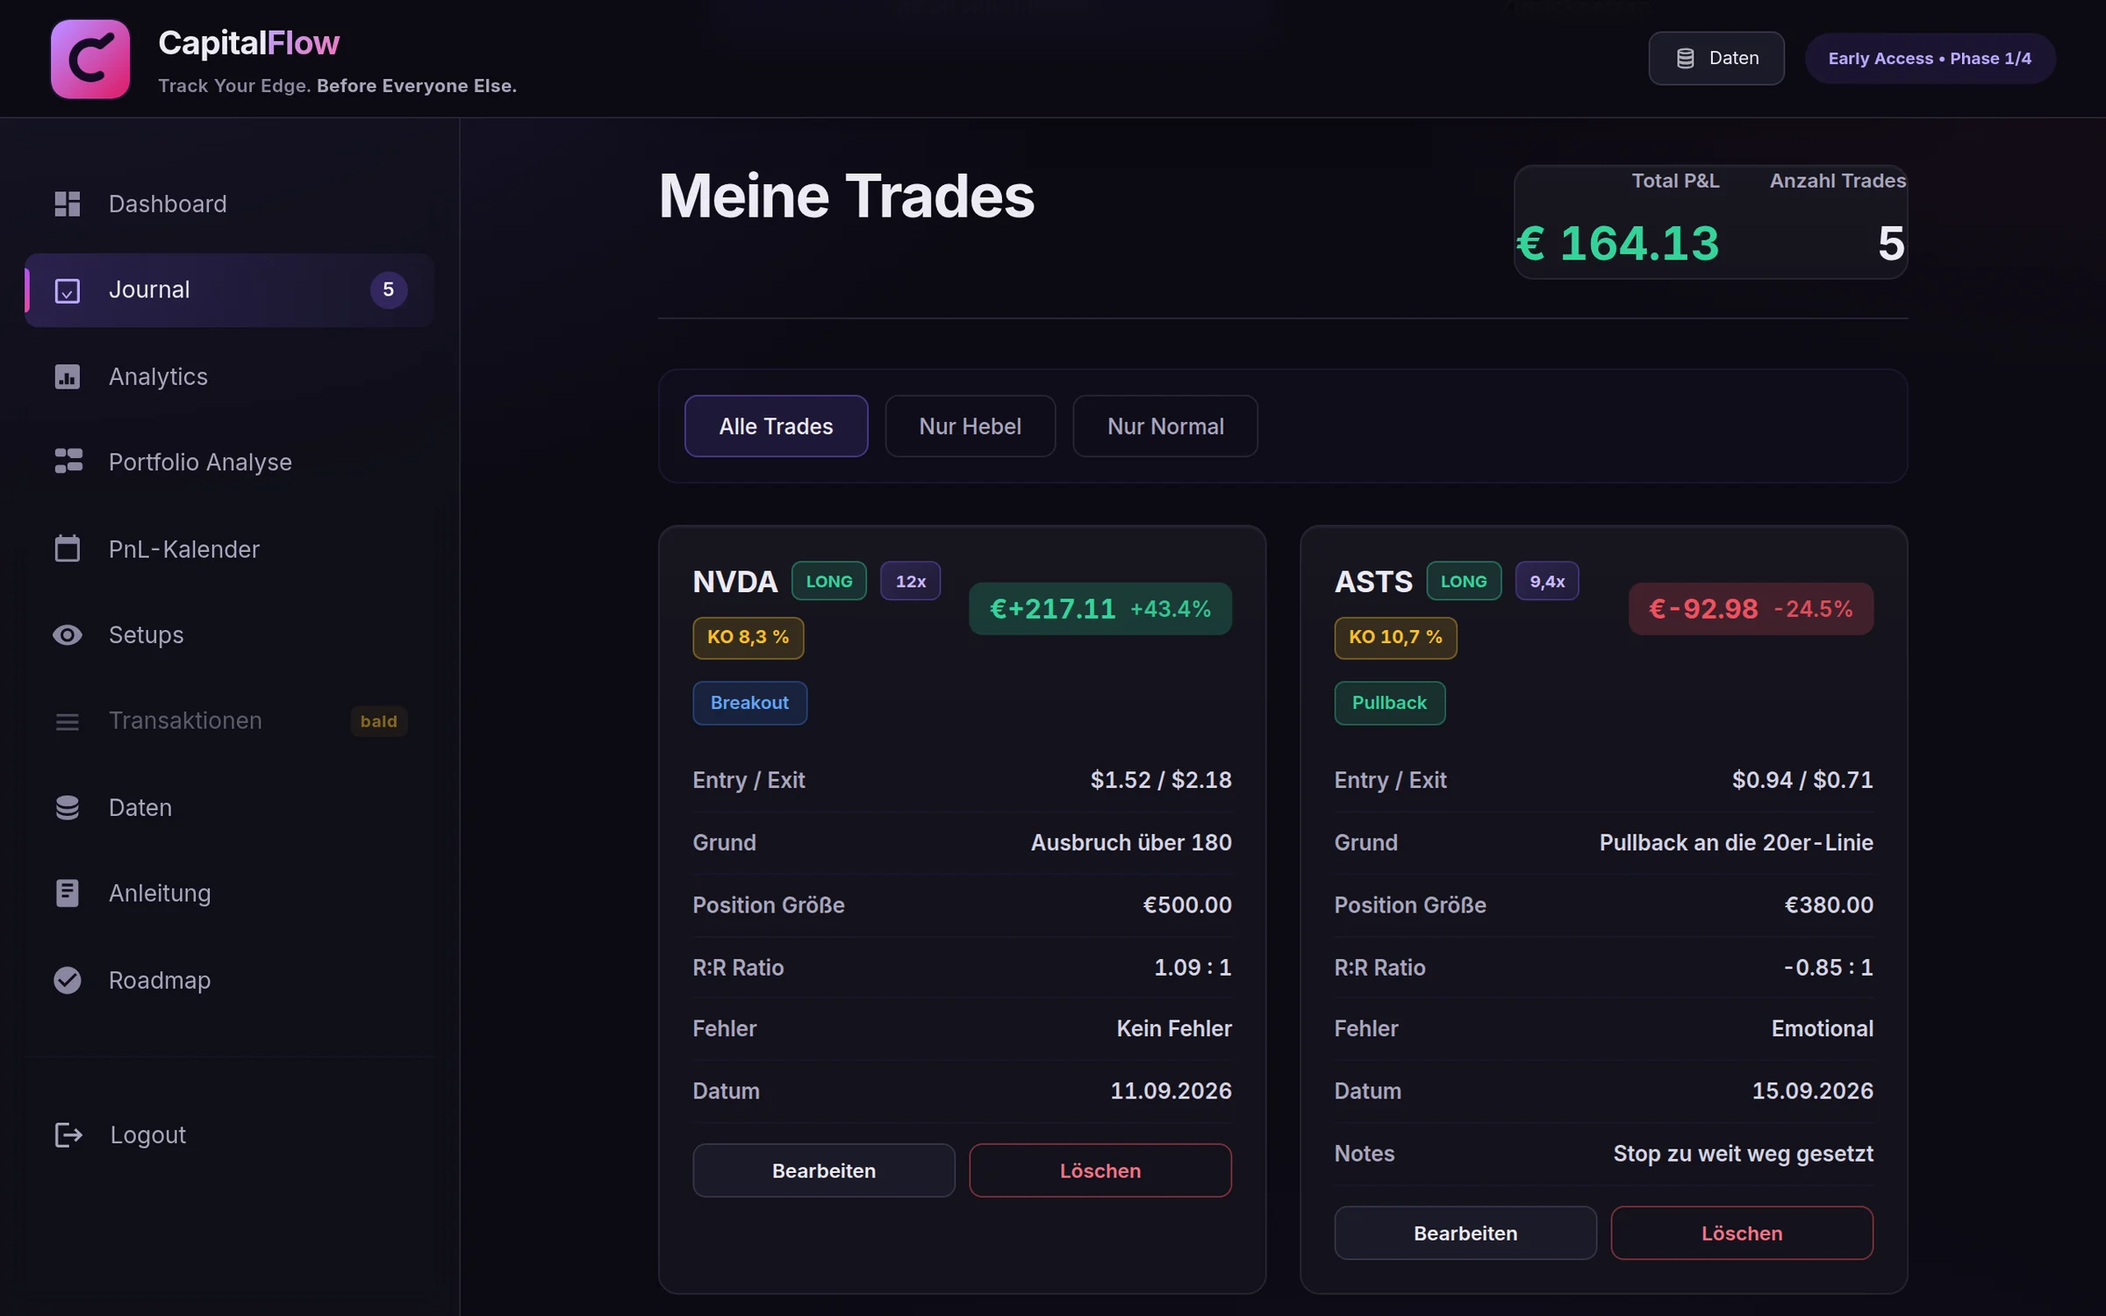
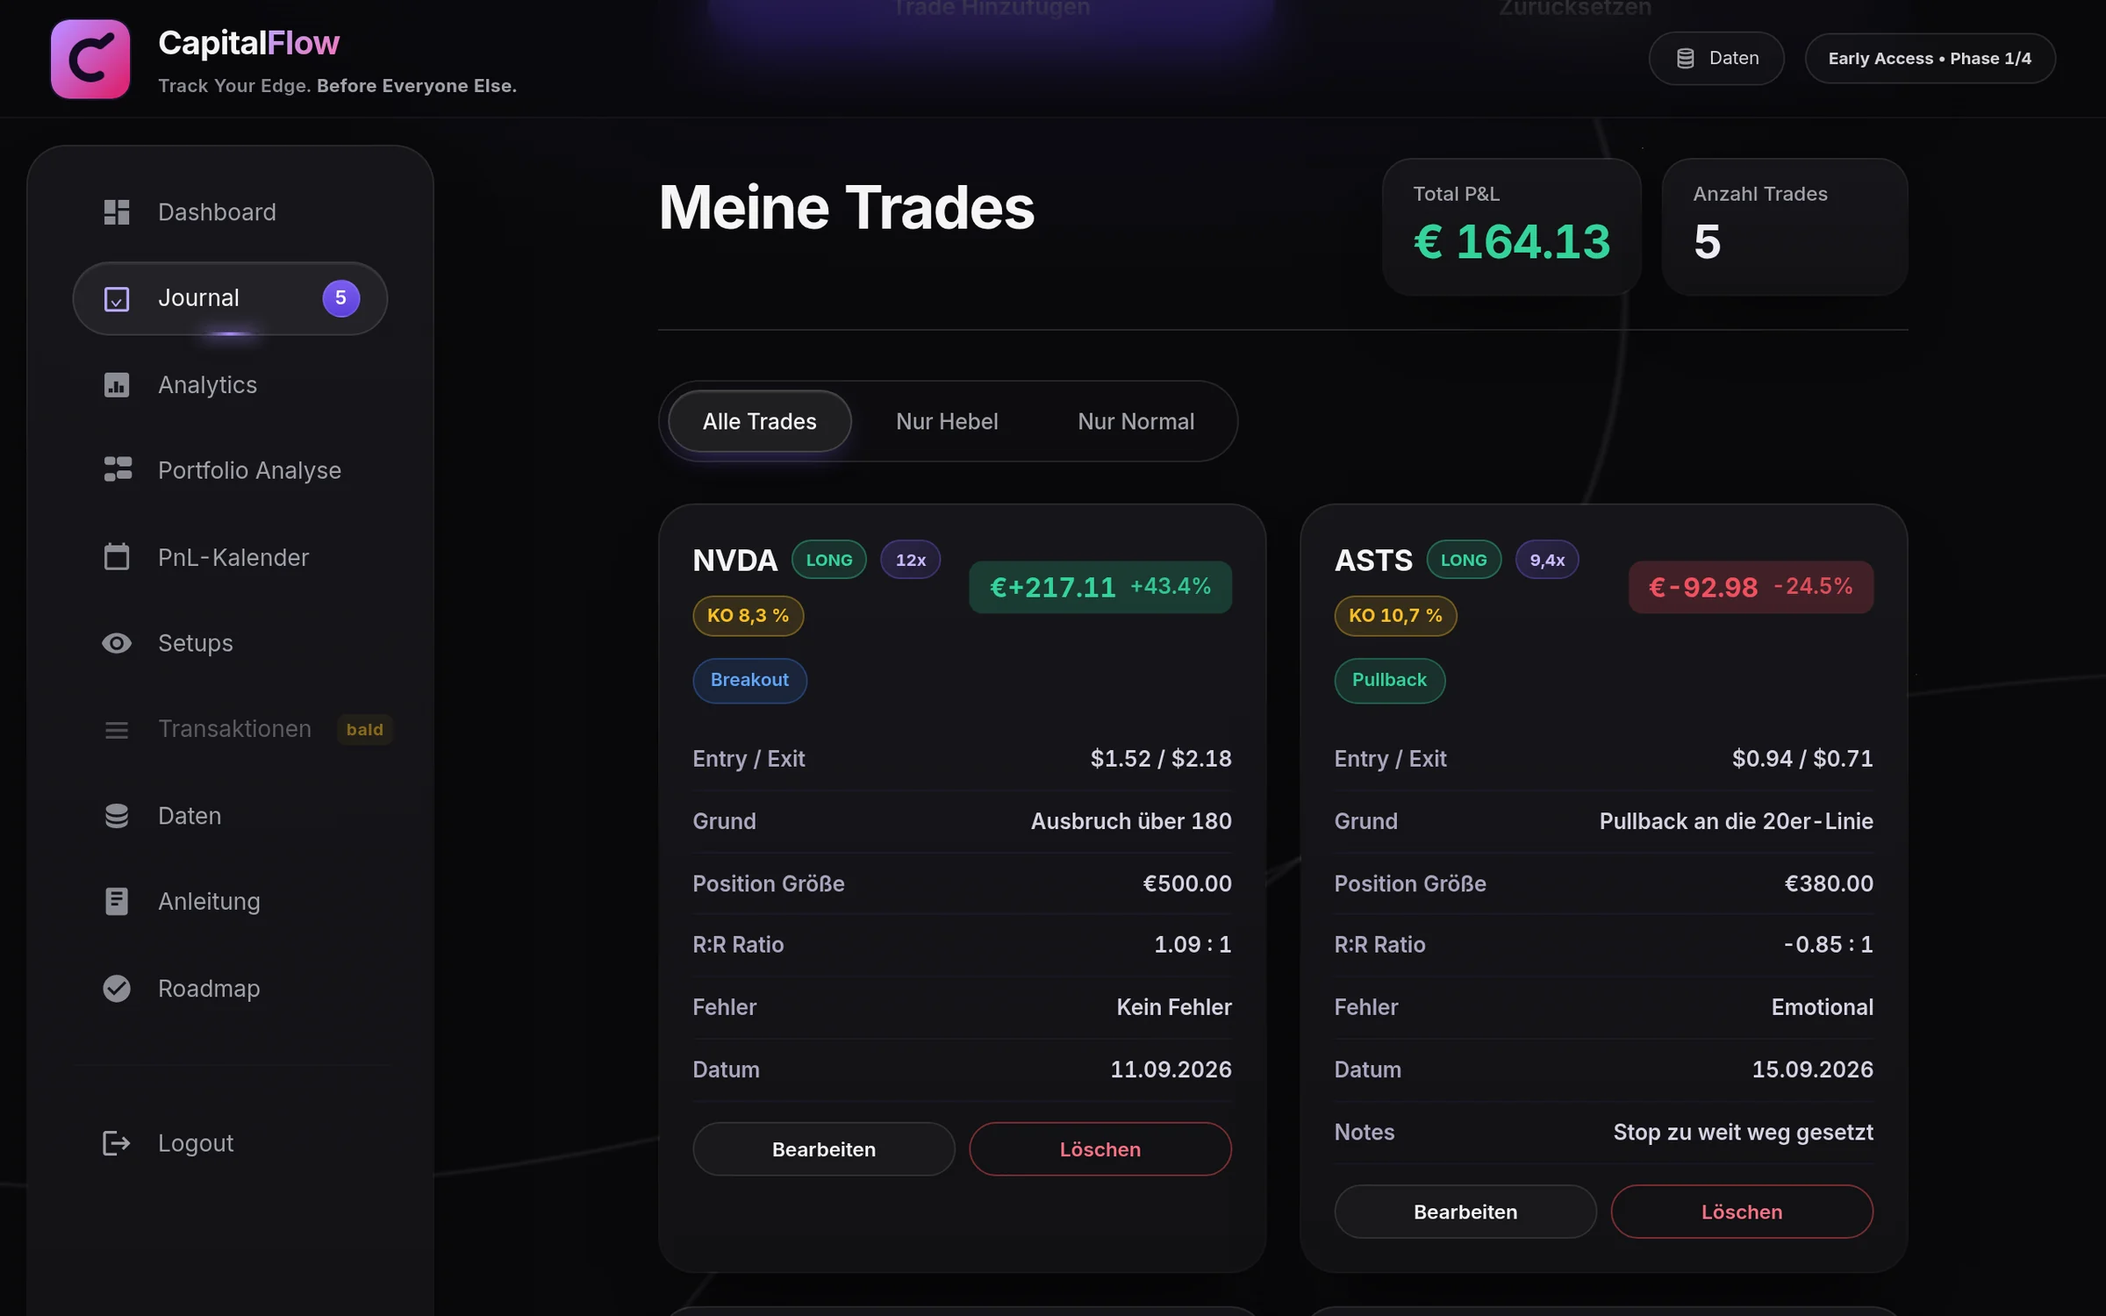
Design: Stil Glas

diff --git a/css/thema.css b/css/thema.css
@@ -636,3 +636,239 @@ dialog.cf-gross {
     .modal-btn-confirm:hover, .newkey-btn:hover, .login-btn:hover, .btn-secondary:hover, .trade-edit:hover, .daten-btn:hover,
     .trade-delete:hover, .setups-btn-delete:hover { transform: none !important; }
 }
+
+/* ==========================================================================
+   STIL "GLAS" (02.10.)
+   Vorbild: dunkles Dashboard mit fast schwarzer, neutraler Flaeche, grossen
+   runden Karten mit Verlaufskante, Pillen-Knoepfen, violettem Leuchten nur
+   an der Hauptaktion und feinen Umlauf-Linien im Hintergrund.
+   Steht am Ende, damit es alles darueber ersetzt.
+   ========================================================================== */
+:root {
+    --g-kante: linear-gradient(180deg, rgba(255, 255, 255, 0.13), rgba(255, 255, 255, 0.035) 45%, rgba(255, 255, 255, 0.06));
+    --g-kante-hover: linear-gradient(180deg, rgba(167, 139, 250, 0.55), rgba(124, 92, 240, 0.18) 50%, rgba(255, 255, 255, 0.08));
+    --g-flaeche: linear-gradient(180deg, #16161A, #111114);
+    --g-flaeche-tief: #0D0D10;
+    --g-pille-rand: rgba(255, 255, 255, 0.10);
+    --g-glow: 0 0 0 1px rgba(167, 139, 250, 0.35), 0 8px 28px -6px rgba(124, 92, 240, 0.65), 0 0 22px rgba(124, 92, 240, 0.35);
+    --card-bg: #121215;
+    --border-color: #26262C;
+}
+
+/* ------------------------------------------------ Hintergrund: Umlaufbahnen und Sterne, ruhig */
+html { background: #09090B; }
+body {
+    background:
+        radial-gradient(1px 1px at 12% 18%, rgba(255, 255, 255, 0.55), transparent 60%),
+        radial-gradient(1px 1px at 78% 9%, rgba(255, 255, 255, 0.45), transparent 60%),
+        radial-gradient(1px 1px at 91% 41%, rgba(255, 255, 255, 0.35), transparent 60%),
+        radial-gradient(1px 1px at 33% 72%, rgba(255, 255, 255, 0.35), transparent 60%),
+        radial-gradient(1px 1px at 64% 88%, rgba(255, 255, 255, 0.4), transparent 60%),
+        radial-gradient(1.5px 1.5px at 52% 31%, rgba(167, 139, 250, 0.7), transparent 60%),
+        radial-gradient(1.5px 1.5px at 22% 92%, rgba(167, 139, 250, 0.6), transparent 60%),
+        /* zwei feine Umlaufbahnen */
+        radial-gradient(ellipse 70% 55% at 8% 18%, transparent 98.4%, rgba(255, 255, 255, 0.07) 98.8%, transparent 99.2%),
+        radial-gradient(ellipse 85% 70% at 108% 110%, transparent 98.6%, rgba(255, 255, 255, 0.06) 98.9%, transparent 99.2%),
+        /* Licht oben, sehr weich */
+        radial-gradient(900px 420px at 50% -12%, rgba(124, 92, 240, 0.12), transparent 70%),
+        #09090B !important;
+    background-attachment: fixed !important;
+}
+
+/* ------------------------------------------------ Kopfzeile */
+.navbar {
+    background: rgba(9, 9, 11, 0.72) !important;
+    border-bottom: 1px solid rgba(255, 255, 255, 0.05) !important;
+    backdrop-filter: blur(16px) saturate(140%);
+    -webkit-backdrop-filter: blur(16px) saturate(140%);
+}
+.navbar-phase, .daten-btn {
+    border-radius: 999px !important;
+    background: rgba(255, 255, 255, 0.03) !important;
+    border: 1px solid var(--g-pille-rand) !important;
+    color: #D4D4D8 !important;
+}
+
+/* ------------------------------------------------ Seitenleiste: schwebende Karte */
+.sidebar {
+    top: 88px !important;
+    left: 16px !important;
+    width: 248px !important;
+    height: calc(100vh - 104px) !important;
+    padding: 18px 12px !important;
+    border-radius: 24px !important;
+    border: 1px solid transparent !important;
+    background: var(--g-flaeche) padding-box, var(--g-kante) border-box !important;
+    box-shadow: 0 30px 60px -30px rgba(0, 0, 0, 0.8);
+}
+.main-wrapper { margin-left: 280px; }
+.nav-item {
+    border-radius: 999px !important;
+    padding: 10px 16px !important;
+    border: 1px solid transparent !important;
+    color: #A1A1AA !important;
+}
+.nav-item:hover { background: rgba(255, 255, 255, 0.04) !important; color: #F4F4F5 !important; }
+.nav-item.active {
+    background: rgba(255, 255, 255, 0.06) !important;
+    border-color: rgba(255, 255, 255, 0.10) !important;
+    color: #F4F4F5 !important;
+    box-shadow: inset 0 1px 0 rgba(255, 255, 255, 0.06);
+}
+/* aktiver Punkt: kurzer violetter Lichtstrich unten statt Kante links */
+.nav-item.active::before {
+    left: 50% !important; right: auto !important;
+    top: auto !important; bottom: -1px !important;
+    width: 34px !important; height: 2px !important;
+    transform: translateX(-50%);
+    border-radius: 2px !important;
+    background: linear-gradient(90deg, transparent, #A78BFA, transparent) !important;
+    box-shadow: 0 0 10px 1px rgba(167, 139, 250, 0.7);
+}
+.nav-zahl { background: rgba(255, 255, 255, 0.05) !important; border-color: var(--g-pille-rand) !important; }
+.nav-item.active .nav-zahl { background: linear-gradient(180deg, #7C5CF0, #5B3FD9) !important; color: #fff !important; }
+.sidebar-logout-btn { border-radius: 999px !important; }
+
+/* ------------------------------------------------ Karten: Flaeche + Verlaufskante */
+.dashboard-stat, .top-stat, .dashboard-section, .dashboard-card, .dashboard-big-card,
+.analytics-metric-card, .analytics-metric-card-small, .premium-stat-card, .trade-score-card,
+.daily-summary-card, .trade-card, .position-card, .setups-card, .setup-type-stat-card,
+.aus-karte, .daten-karte, .admin-karte, .admin-section, .hilfe-block, .form-section,
+.portfolio-summary, .summary-item, .zert-block, .newkey-card, .start-kasten,
+.roadmap-card-premium, .completed-card, .in-progress-card, .planned-card,
+.equity-section, .dir-card, .zert-kachel, .admin-key-karte, .bereich-sperre-karte, .trades-stat-item {
+    border: 1px solid transparent !important;
+    border-radius: 22px !important;
+    background: var(--g-flaeche) padding-box, var(--g-kante) border-box !important;
+    box-shadow: 0 24px 48px -28px rgba(0, 0, 0, 0.9) !important;
+}
+/* kleine Kacheln etwas weniger rund */
+.dashboard-card, .analytics-metric-card-small, .zert-kachel, .summary-item, .trades-stat-item { border-radius: 18px !important; }
+/* Setups behalten die farbige Statusmarke, jetzt als Punktlinie oben */
+.setups-card { box-shadow: inset 0 2px 0 var(--st), 0 24px 48px -28px rgba(0, 0, 0, 0.9) !important; }
+.dir-card-long { box-shadow: inset 3px 0 0 #12A38F, 0 24px 48px -28px rgba(0, 0, 0, 0.9) !important; }
+.dir-card-short { box-shadow: inset 3px 0 0 #E5484D, 0 24px 48px -28px rgba(0, 0, 0, 0.9) !important; }
+
+/* Hover: Anheben wie frueher, dazu wird die Kante violett */
+.dashboard-big-card:hover, .dashboard-section:hover, .dashboard-stat:hover, .top-stat:hover,
+.analytics-metric-card:hover, .premium-stat-card:hover, .trade-card:hover, .position-card:hover,
+.setups-card:hover, .aus-karte:hover, .dir-card:hover, .daily-summary-card:hover, .trades-stat-item:hover,
+.roadmap-card-premium:hover, .completed-card:hover, .in-progress-card:hover, .planned-card:hover,
+.dashboard-card:hover, .analytics-metric-card-small:hover, .zert-kachel:hover, .summary-item:hover {
+    background: var(--g-flaeche) padding-box, var(--g-kante-hover) border-box !important;
+    border-color: transparent !important;
+    box-shadow: 0 30px 80px rgba(124, 92, 240, 0.16), 0 24px 48px -28px rgba(0, 0, 0, 0.9) !important;
+}
+.cf-gross-inhalt, .cf-gross-inhalt:hover { background: transparent !important; box-shadow: none !important; border: 0 !important; }
+
+/* Warn-/Tippflaechen: weich gerundet, nicht pillenfoermig */
+.hilfe-warn, .zert-warnung, .bereich-warnung, .admin-key-warn, .newkey-warn,
+.hilfe-tipp, .zert-hinweis, .edit-hinweis { border-radius: 14px !important; }
+
+/* ------------------------------------------------ Knoepfe: Pillen */
+.submit-btn, .btn-primary, .login-btn, .setups-btn-primary, .admin-btn-primary, .dtab-btn-primaer,
+.modal-btn-confirm, .newkey-btn, #closePositionModal button[onclick*="confirm"] {
+    border-radius: 999px !important;
+    background: linear-gradient(180deg, #7C5CF0 0%, #5B3FD9 100%) !important;
+    box-shadow: inset 0 1px 0 rgba(255, 255, 255, 0.22), var(--g-glow) !important;
+}
+.submit-btn:hover, .btn-primary:hover, .login-btn:hover, .setups-btn-primary:hover, .admin-btn-primary:hover,
+.dtab-btn-primaer:hover, .modal-btn-confirm:hover, .newkey-btn:hover, #closePositionModal button[onclick*="confirm"]:hover {
+    box-shadow: inset 0 1px 0 rgba(255, 255, 255, 0.25), 0 0 0 1px rgba(167, 139, 250, 0.5), 0 10px 34px -4px rgba(124, 92, 240, 0.8), 0 0 30px rgba(124, 92, 240, 0.45) !important;
+}
+.btn-secondary, .modal-btn-cancel, .setups-btn-ghost, .login-btn-secondary, .dtab-btn, .trade-edit,
+.trade-nachtragen-btn, .key-btn-copy, .admin-zeile-btn, .position-close-btn, .calendar-btn, .pnl-nav-btn,
+.trade-delete, .position-delete-btn, .setups-btn-delete, .key-btn-delete, .btn-gefahr,
+#logoutModal button, #deleteModal button, #closePositionModal button, .discord-btn, .sidebar-logout-btn, .cf-gross-knopf {
+    border-radius: 999px !important;
+}
+.btn-secondary, .modal-btn-cancel, .setups-btn-ghost, .login-btn-secondary, .dtab-btn, .trade-edit,
+.trade-nachtragen-btn, .key-btn-copy, .admin-zeile-btn, .position-close-btn, .calendar-btn, .pnl-nav-btn,
+#logoutModal button[onclick="cancelLogout()"], #deleteModal button[onclick="cancelDelete()"], #closePositionModal button[onclick*="closeModal"] {
+    background: rgba(255, 255, 255, 0.03) !important;
+    border: 1px solid var(--g-pille-rand) !important;
+    color: #F4F4F5 !important;
+}
+/* Auswahl (Filter, Tabs, Richtung): Pillen, aktive mit hellerer Flaeche */
+.filter-btn, .tab-button, .setup-type-filter-btn, .produkt-btn, .direction-btn, .setups-status-btn, .login-mode-btn {
+    border-radius: 999px !important;
+    background: rgba(255, 255, 255, 0.02) !important;
+    border: 1px solid var(--g-pille-rand) !important;
+    color: #A1A1AA !important;
+}
+.filter-btn.active, .tab-button.active, .setup-type-filter-btn.active, .produkt-btn.active,
+.setups-status-btn.active, .login-mode-btn.active {
+    background: rgba(255, 255, 255, 0.08) !important;
+    border-color: rgba(255, 255, 255, 0.16) !important;
+    color: #F4F4F5 !important;
+    box-shadow: inset 0 1px 0 rgba(255, 255, 255, 0.08), 0 6px 18px -8px rgba(124, 92, 240, 0.6) !important;
+}
+/* Leiste, in der die Filterknoepfe stehen: selbst eine Pille */
+.trades-filter { gap: 6px !important; }
+
+/* ------------------------------------------------ Felder */
+.form-group input, .form-group select, .login-input, .admin-input, .custom-select-header,
+.trades-filter select, .trades-filter input {
+    border-radius: 999px !important;
+    background: rgba(255, 255, 255, 0.03) !important;
+    border: 1px solid var(--g-pille-rand) !important;
+    padding-left: 18px !important;
+}
+.form-group textarea { border-radius: 16px !important; background: rgba(255, 255, 255, 0.03) !important; border: 1px solid var(--g-pille-rand) !important; }
+.custom-select-dropdown { border-radius: 16px !important; background: #16161A !important; }
+.screenshot-paste-area { border-radius: 18px !important; background: rgba(255, 255, 255, 0.02) !important; }
+
+/* ------------------------------------------------ Kleinteile */
+.setup-type-badge, .trade-leverage-badge, .trade-ko-badge, .dir-badge, .session-badge, .setups-status-pill, .nav-zahl {
+    border-radius: 999px !important;
+}
+.calendar-day { border-radius: 16px !important; background: var(--g-flaeche) padding-box, var(--g-kante) border-box !important; border: 1px solid transparent !important; }
+.calendar-day.profit { background: linear-gradient(180deg, rgba(52, 211, 153, 0.12), rgba(52, 211, 153, 0.02)) padding-box, linear-gradient(180deg, rgba(52, 211, 153, 0.5), rgba(52, 211, 153, 0.08)) border-box !important; }
+.calendar-day.loss { background: linear-gradient(180deg, rgba(251, 113, 133, 0.12), rgba(251, 113, 133, 0.02)) padding-box, linear-gradient(180deg, rgba(251, 113, 133, 0.5), rgba(251, 113, 133, 0.08)) border-box !important; }
+.cf-gross-knopf { width: 34px; height: 34px; background: rgba(255, 255, 255, 0.04); border-color: var(--g-pille-rand); }
+
+/* ------------------------------------------------ Fenster */
+.modal-content, .screenshot-modal-content, dialog.cf-dialog {
+    border-radius: 26px !important;
+    border: 1px solid transparent !important;
+    background: var(--g-flaeche) padding-box, var(--g-kante) border-box !important;
+}
+.toast { border-radius: 999px !important; }
+
+/* ------------------------------------------------ Login */
+.login-container {
+    border-radius: 28px !important;
+    border: 1px solid transparent !important;
+    background: var(--g-flaeche) padding-box, var(--g-kante) border-box !important;
+}
+.login-screen {
+    background-color: #09090B !important;
+    background-image:
+        radial-gradient(1px 1px at 14% 22%, rgba(255, 255, 255, 0.55), transparent 60%),
+        radial-gradient(1px 1px at 82% 14%, rgba(255, 255, 255, 0.45), transparent 60%),
+        radial-gradient(1.5px 1.5px at 70% 78%, rgba(167, 139, 250, 0.7), transparent 60%),
+        radial-gradient(ellipse 70% 60% at 0% 10%, transparent 98.3%, rgba(255, 255, 255, 0.08) 98.7%, transparent 99.1%),
+        radial-gradient(ellipse 80% 70% at 110% 105%, transparent 98.5%, rgba(255, 255, 255, 0.07) 98.85%, transparent 99.2%),
+        radial-gradient(ellipse 46% 56% at 50% 46%, rgba(124, 92, 240, 0.16), transparent 75%) !important;
+    background-size: auto !important;
+}
+
+/* ------------------------------------------------ Schmal */
+@media (max-width: 768px) {
+    .sidebar { top: 72px !important; left: 0 !important; width: 280px !important; height: calc(100vh - 72px) !important; border-radius: 0 24px 24px 0 !important; }
+    .main-wrapper { margin-left: 0; }
+}
+/* Filterleiste selbst als Pille, so breit wie ihr Inhalt */
+.trades-filter {
+    display: inline-flex !important;
+    flex-wrap: wrap;
+    width: auto !important;
+    max-width: 100%;
+    padding: 5px !important;
+    border-radius: 999px !important;
+    background: rgba(255, 255, 255, 0.02) !important;
+    border: 1px solid var(--g-pille-rand) !important;
+    box-shadow: none !important;
+}
+.trades-filter .filter-btn:not(.active) { border-color: transparent !important; background: transparent !important; }
+@media (max-width: 640px) { .trades-filter { border-radius: 22px !important; } }

diff --git a/css/basis.css b/css/basis.css
@@ -55,17 +55,17 @@
 
 :root {
     /* Flaechen: Schwarz mit einem Hauch Violett */
-    --cf-seite: #0B0A12;
-    --cf-karte: #13121C;
-    --cf-erhoben: #1B1A27;
-    --cf-rand: #262433;
-    --cf-rand-feld: #353247;
+    --cf-seite: #09090B;
+    --cf-karte: #121215;
+    --cf-erhoben: #1A1A1F;
+    --cf-rand: #26262C;
+    --cf-rand-feld: #34343C;
     --cf-schimmer: rgba(255, 255, 255, 0.045);   /* Lichtkante oben an Karten */
 
     /* Text */
-    --cf-text: #ECEAF4;
-    --cf-text-2: #A9A5BD;
-    --cf-text-leise: #8A86A0;
+    --cf-text: #F4F4F5;
+    --cf-text-2: #A1A1AA;
+    --cf-text-leise: #8B8B94;
 
     /* Marke und Akzent */
     --cf-marke-verlauf: linear-gradient(135deg, #A855F7 0%, #EC4899 100%);
@@ -89,7 +89,7 @@
     /* Diagramm-Serien (validiert gegen #13121C, siehe styleguide.html) */
     --cf-serie-1: #9F7AEA;
     --cf-serie-2: #22D3EE;
-    --cf-gitter: #1E1C2A;
+    --cf-gitter: #1E1E23;
 
     /* Schrift */
     --cf-schrift: 'Inter', system-ui, -apple-system, 'Segoe UI', sans-serif;
@@ -112,9 +112,10 @@
     --cf-a-7: 48px;
 
     /* Radius: klein fuer Marken, mittel fuer Bedienelemente, gross fuer Karten */
-    --cf-r-1: 6px;
-    --cf-r-2: 8px;
-    --cf-r-3: 12px;
+    --cf-r-1: 999px;   /* Marken: Pille */
+    --cf-r-2: 999px;   /* Knoepfe, Felder: Pille */
+    --cf-r-3: 22px;    /* Karten */
+    --cf-r-4: 14px;    /* innere Flaechen, Textfelder */
 
     --cf-fokus: 0 0 0 2px var(--cf-seite), 0 0 0 4px var(--cf-akzent-text);
     --cf-dauer: 140ms;
@@ -313,7 +314,7 @@
 .cf-eingabe::placeholder { color: var(--cf-text-leise); }
 .cf-eingabe:hover { border-color: #47435E; }
 .cf-eingabe:focus { outline: none; border-color: var(--cf-akzent-text); box-shadow: 0 0 0 3px var(--cf-akzent-grund); }
-textarea.cf-eingabe { padding: var(--cf-a-2) var(--cf-a-3); min-height: 80px; line-height: 1.5; resize: vertical; }
+textarea.cf-eingabe { padding: var(--cf-a-2) var(--cf-a-3); min-height: 80px; line-height: 1.5; resize: vertical; border-radius: var(--cf-r-4); }
 select.cf-eingabe {
     appearance: none;
     padding-right: 32px;
@@ -427,7 +428,7 @@ select.cf-eingabe {
     padding: var(--cf-a-3) var(--cf-a-4);
     border: 1px solid var(--cf-rand);
     border-left-width: 3px;
-    border-radius: var(--cf-r-2);
+    border-radius: var(--cf-r-4);
     background: var(--cf-karte);
     color: var(--cf-text-2);
     font-size: var(--cf-t-14);

diff --git a/js/basis.js b/js/basis.js
@@ -14,9 +14,9 @@
     // Canvas kann keine CSS-Variablen lesen, deshalb stehen die Werte hier
     // noch einmal. test_basis.mjs prueft, dass sie mit basis.css uebereinstimmen.
     const FARBEN = {
-        seite: '#0B0A12', karte: '#13121C', erhoben: '#1B1A27',
-        rand: '#262433', randFeld: '#353247', gitter: '#1E1C2A',
-        text: '#ECEAF4', text2: '#A9A5BD', textLeise: '#8A86A0',
+        seite: '#09090B', karte: '#121215', erhoben: '#1A1A1F',
+        rand: '#26262C', randFeld: '#34343C', gitter: '#1E1E23',
+        text: '#F4F4F5', text2: '#A1A1AA', textLeise: '#8B8B94',
         gewinnFlaeche: '#12A38F', verlustFlaeche: '#E5484D', warnungFlaeche: '#C98500',
         serie1: '#9F7AEA', serie2: '#22D3EE',
     };

diff --git a/sw.js b/sw.js
@@ -10,7 +10,7 @@
  * Bei jedem Release CACHE_VERSION hochzaehlen.
  */
 
-const CACHE_VERSION = 'cf-v60';
+const CACHE_VERSION = 'cf-v61';
 const CACHE_APP = CACHE_VERSION + '-app';
 const CACHE_ASSETS = CACHE_VERSION + '-assets';
 
